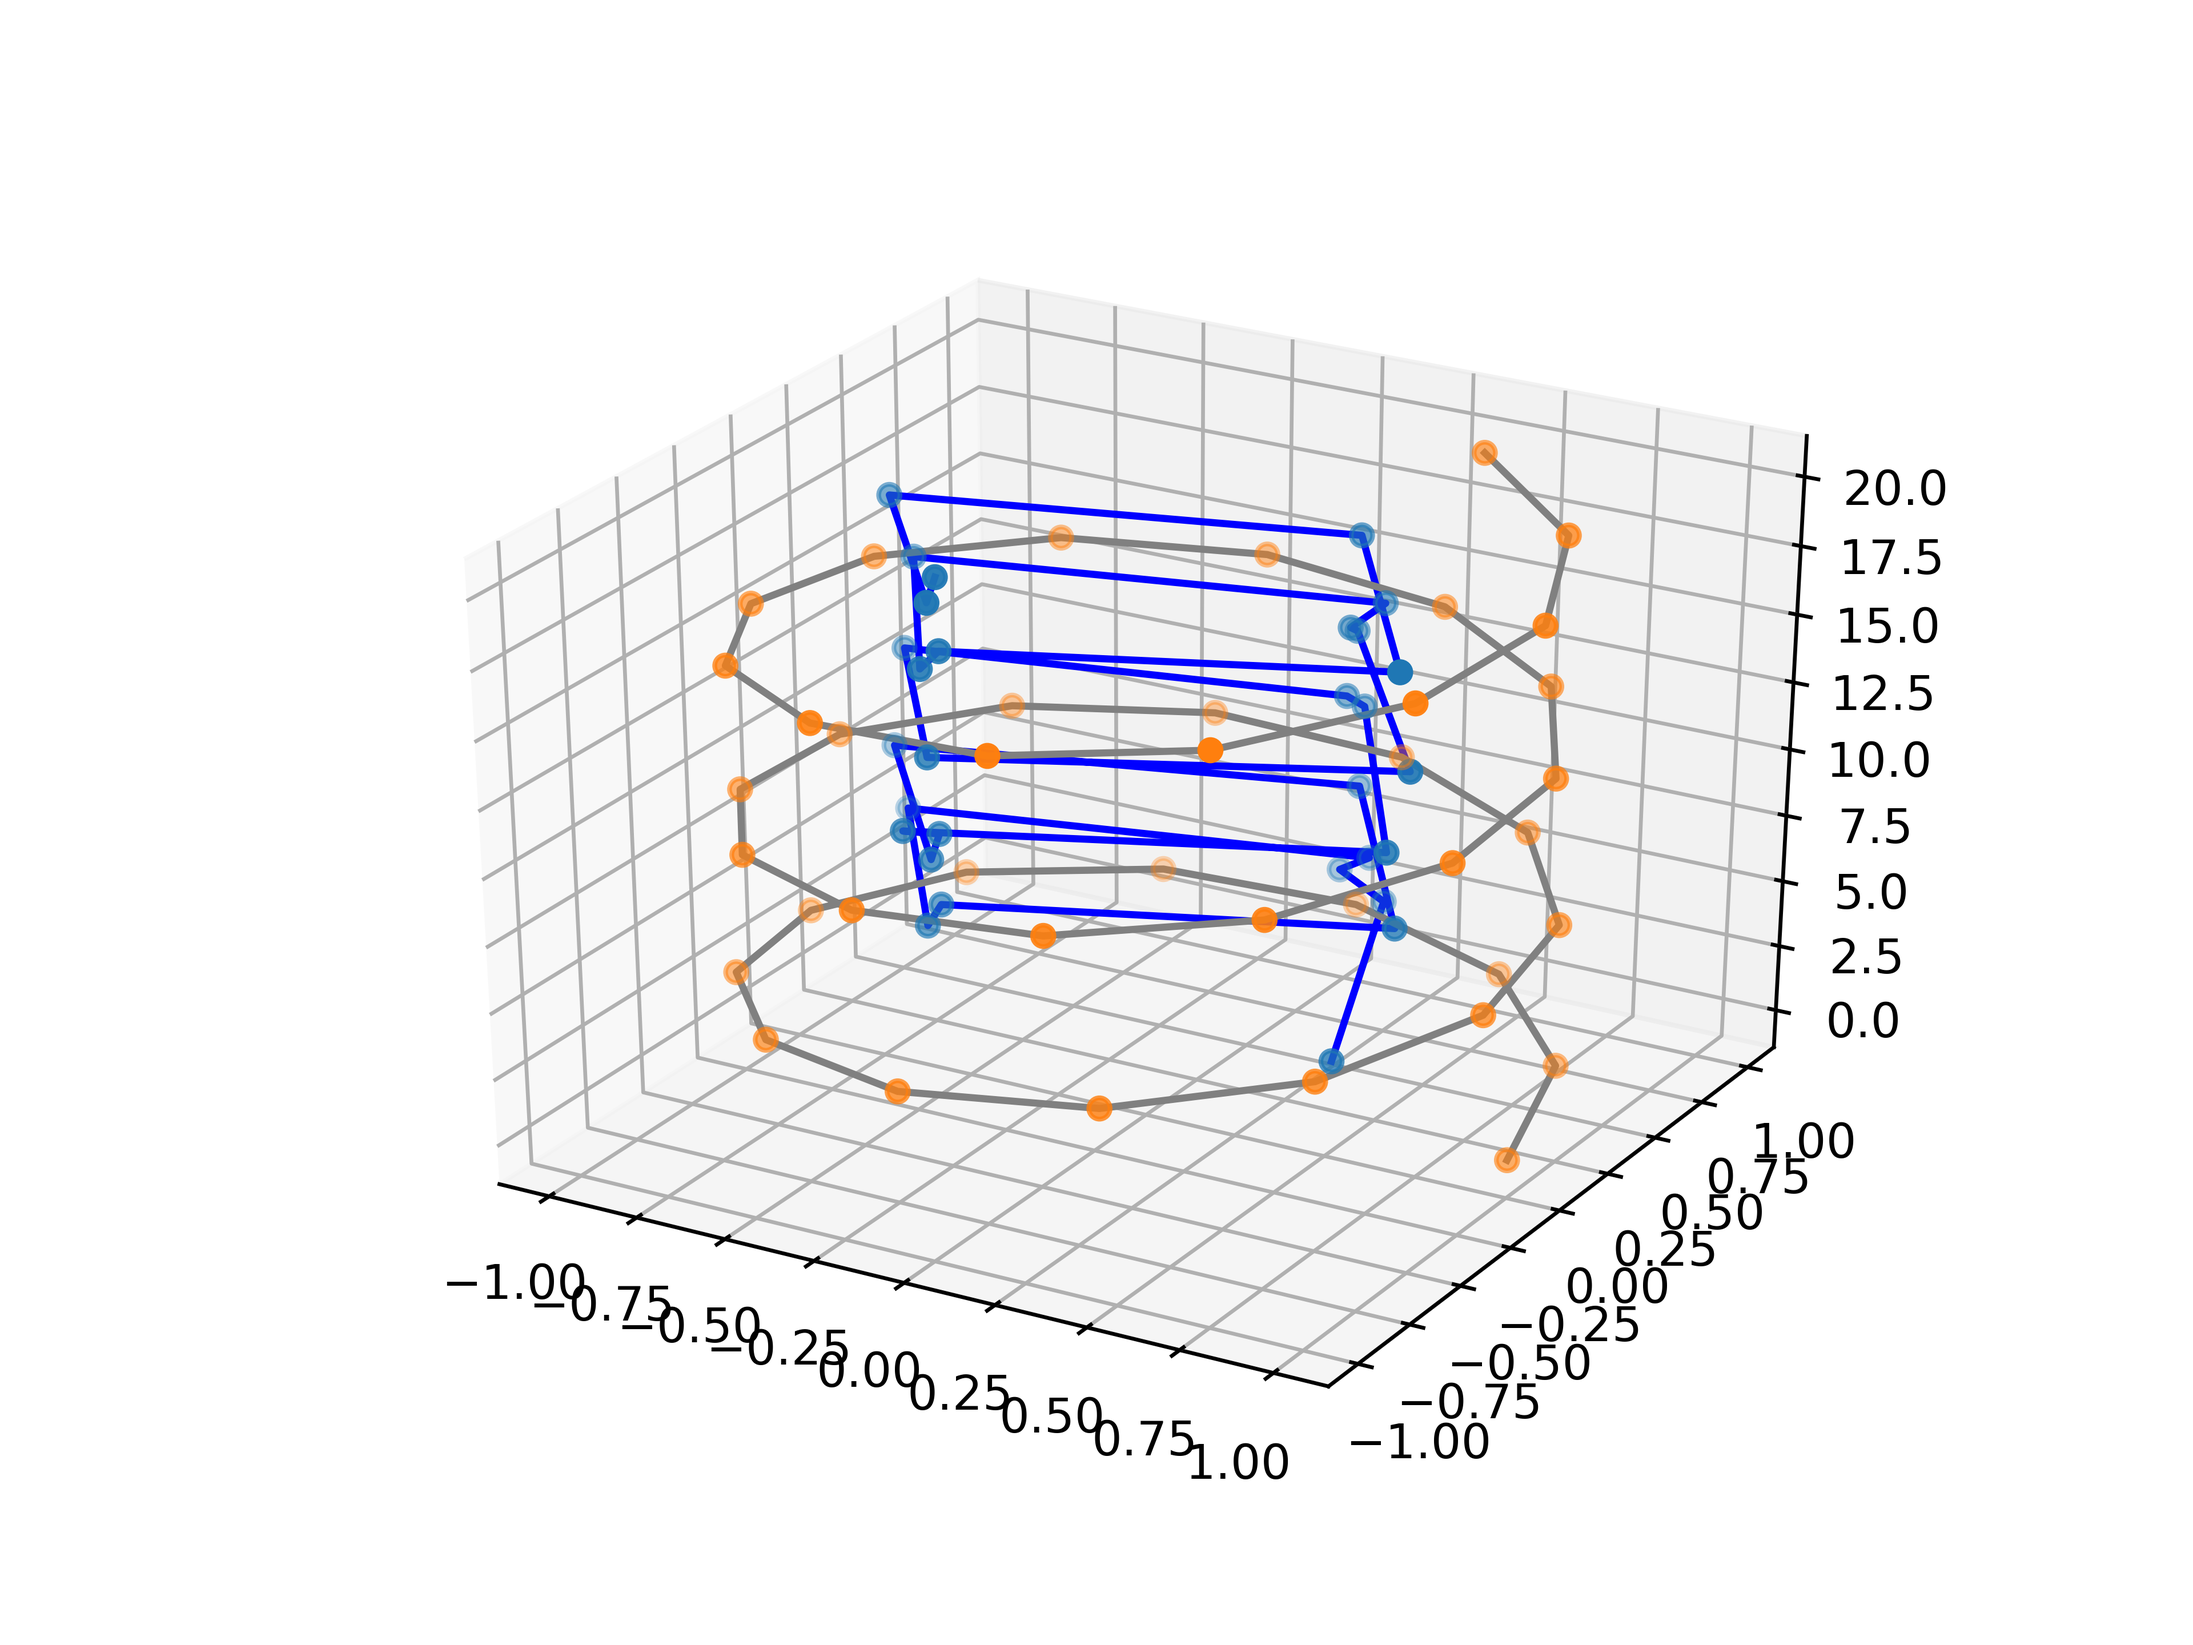
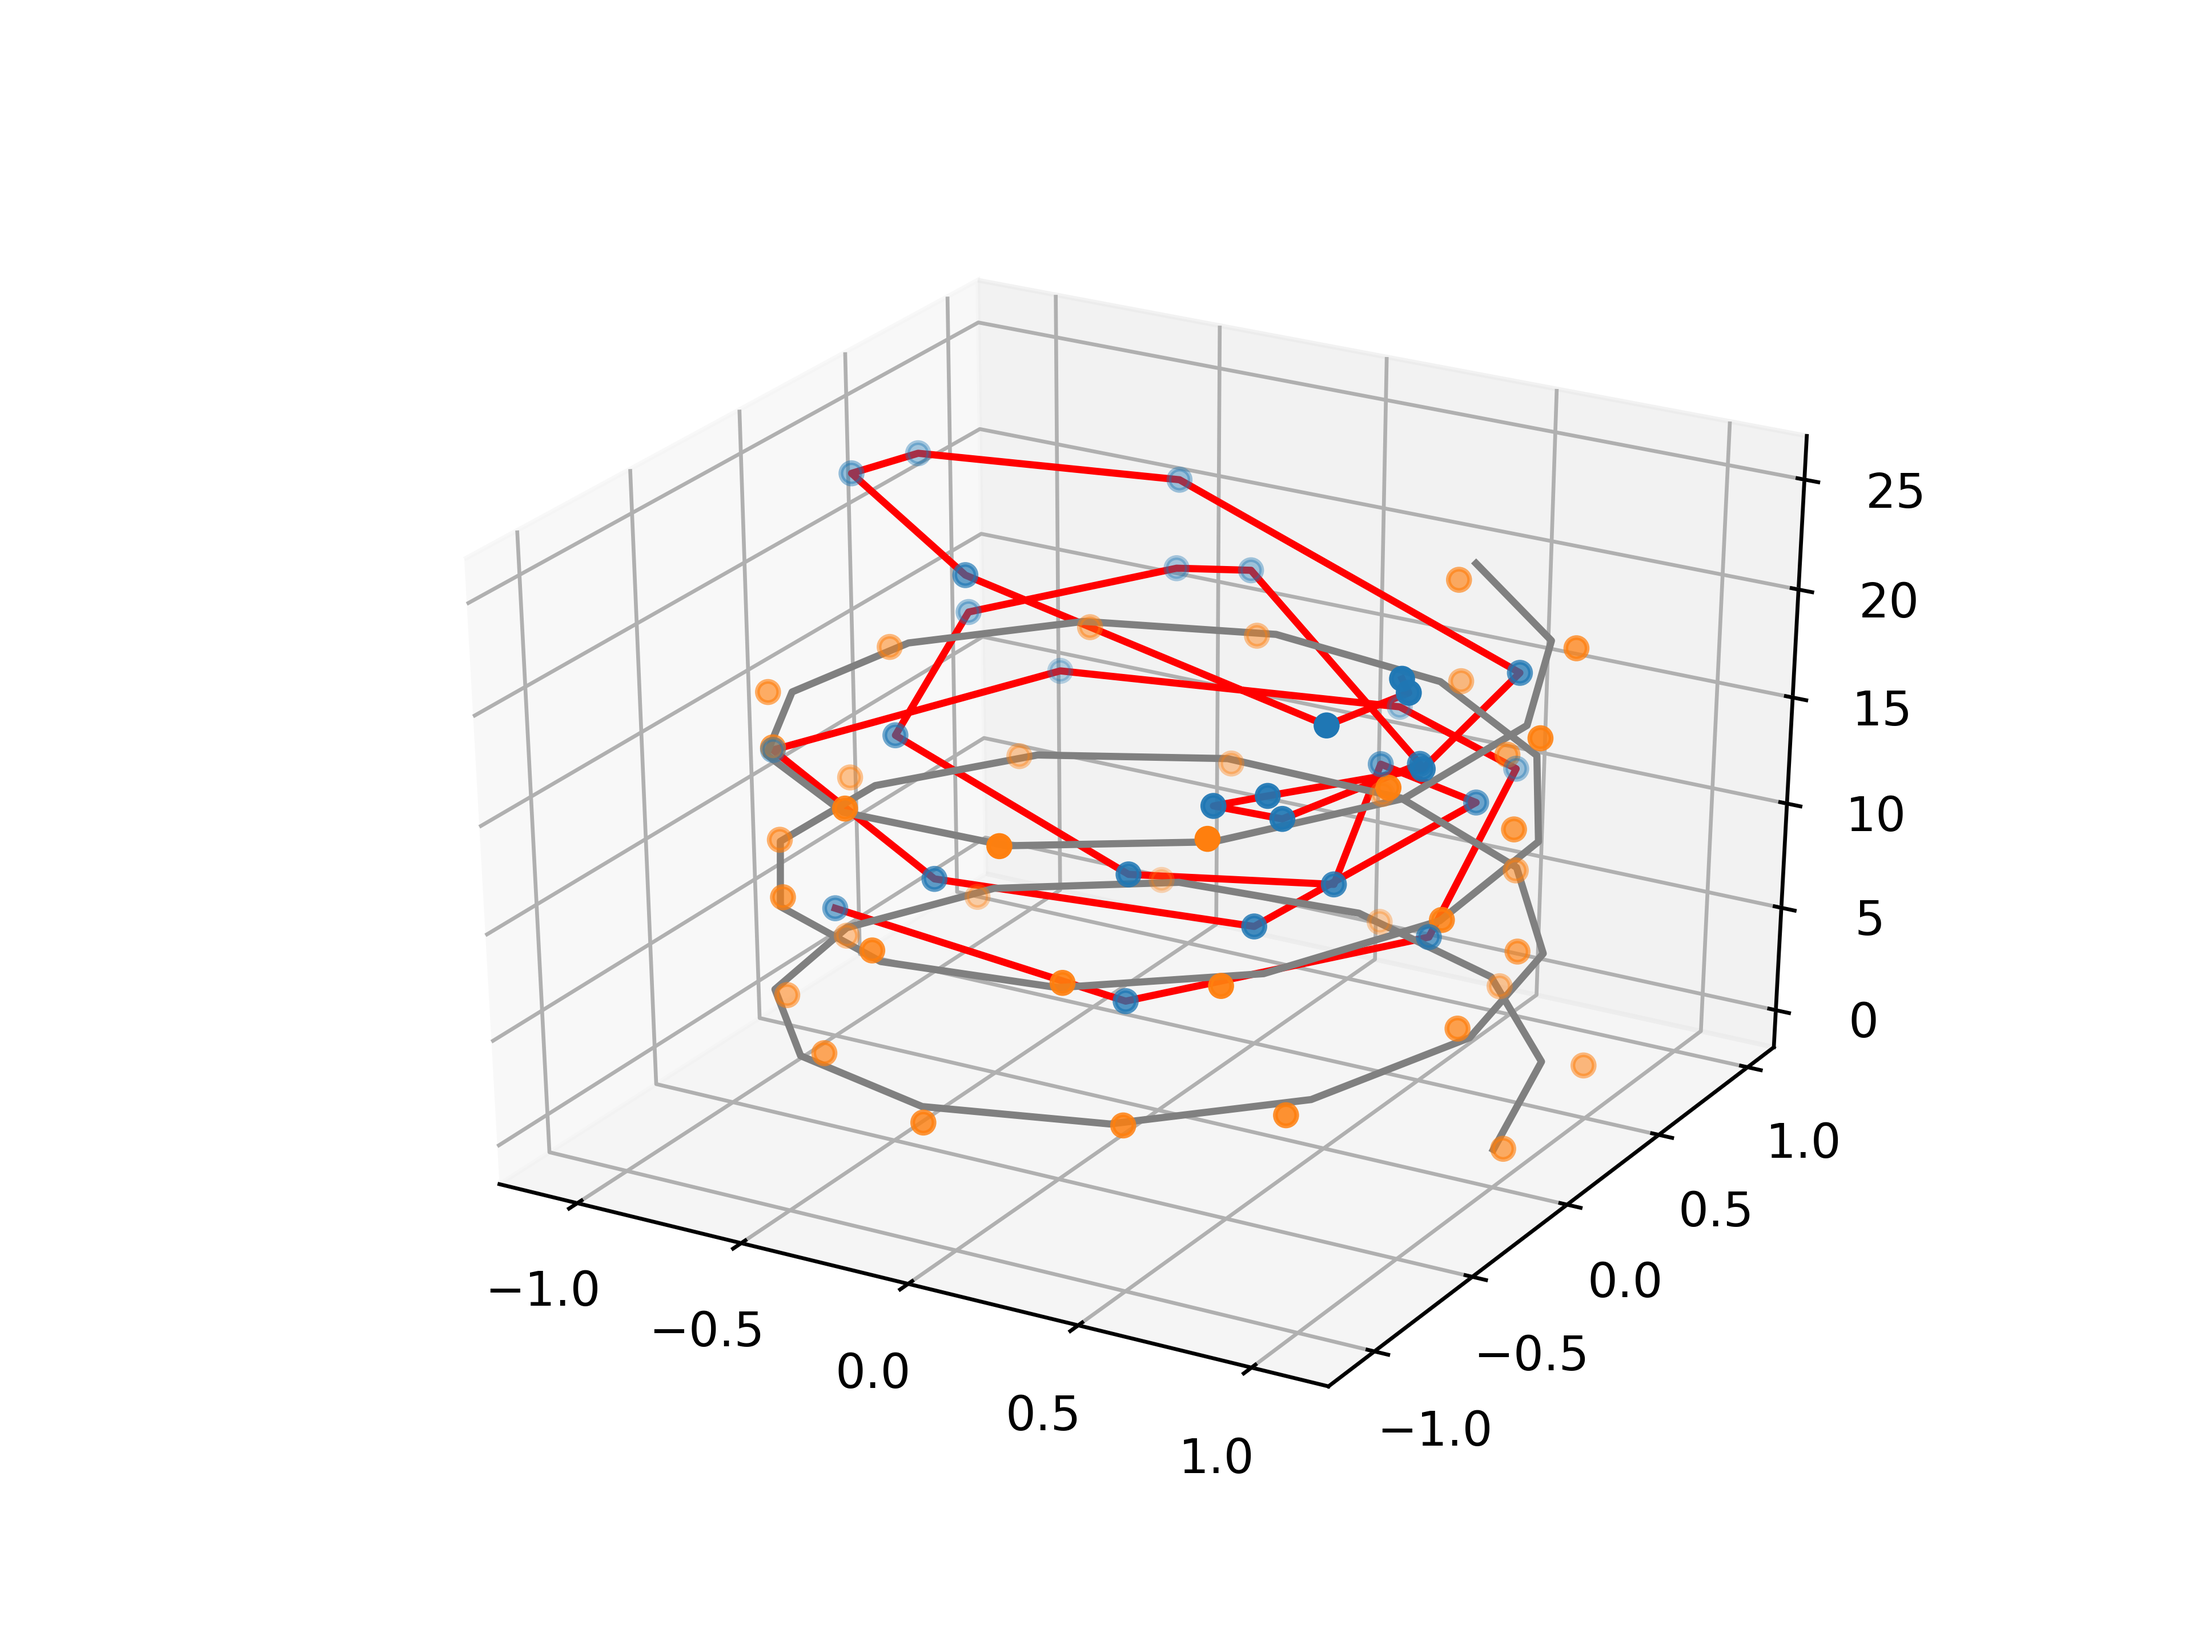
Completed LSTM RNN

diff --git a/networks/lstm_rnn.py b/networks/lstm_rnn.py
@@ -3,6 +3,8 @@ import torch
 import torch.nn as nn
 import torch.optim as optim
 
+import matplotlib.pyplot as plt
+
 from utils.linear import Linear
 from crossbar.crossbar import crossbar
 
@@ -23,7 +25,7 @@ class LSTM_RNN(nn.Module):
     
     def forward(self, x):
         out, h = self.lstm(x)
-        # out = out[:, 1, :]
+        out = out[:, 1, :]
         out = self.linear(torch.relu(out))
         return out
 
@@ -32,27 +34,70 @@ class LSTM_RNN(nn.Module):
         self.linear_hidden.use_cb(state)
         self.solve.use_cb(state)
 
-def train(model, data_gen, iters):
+def train(model, data_gen, epochs):
+
+    examples = data_gen.train_data
 
     optimizer = optim.Adam(model.parameters(), lr=0.01)
-    loss_func = nn.MSELoss()
+    loss_function = nn.MSELoss()
 
-    for itr in range(1, iters + 1):
+    loss_history = []
 
-        optimizer.zero_grad()
-        batch_y0, batch_t, batch_y = data_gen.get_random_batch()
+    for epoch in range(epochs):
 
-        pred_y = model(batch_y)
+        epoch_loss = []
 
-        loss = loss_func(pred_y, batch_y)
-        loss.backward()
-        optimizer.step()
+        for i, (example, label) in enumerate(examples):
 
-        print('Iter {:04d} | Total Loss {:.6f}'.format(itr, loss))
+            optimizer.zero_grad()
+            prediction = model(example[0].reshape(-1, 10, 2)).reshape(2, 1)
 
+            loss = loss_function(prediction, label)
+            epoch_loss.append(loss)
+            loss.backward()
+            optimizer.step()
+        
+        loss_history.append(sum(epoch_loss) / len(examples))
+        epoch_loss = []
+
+        print('Epoch {:04d} | Total Loss {:.6f}'.format(epoch, loss_history[epoch]))
+
+    # Test
+    seq = data_gen.test_start[0][0]
+    t = data_gen.test_start[0][1]
+    num_predict = 30
+    length = num_predict
+
+    dt = torch.sum(t[1:] - t[0:-1]) / (len(t) - 1)
+    output = []
+    all_t = []
+
+    #model.use_cb(True)
+    
     with torch.no_grad():
-        # pred_y = model(torch.tensor(torch.reshape(data_gen.true_y0, (1, 1, 3))))
-        print(data_gen.obs.size())
-        pred_y = model(data_gen.obs)
-        print(pred_y.size())
-        data_gen.plot_prediction(data_gen.true_y, pred_y)
+        for i in range(length):
+            prediction = model(seq.reshape(-1, 10, 2)).reshape(2, 1).reshape(1, -1, 1)
+            seq = torch.cat((seq[1:], prediction), axis=0)
+            all_t.append(t[-1].unsqueeze(0) + dt.unsqueeze(0))
+            t = torch.cat((t[1:], t[-1].unsqueeze(0) + dt.unsqueeze(0)), axis=0)
+            output.append(prediction)
+
+    output, times = torch.cat(output, axis=0), torch.cat(all_t, axis=0)
+
+    ax = plt.axes(projection='3d')
+
+    o1, o2, o3 = output[:, 0].squeeze(), output[:, 1].squeeze(), times.squeeze()
+    # o1, o2, o3 = output[:, 0].squeeze(), output[:, 1].squeeze(), output[:, 2].squeeze()
+    ax.plot3D(o1, o2, o3, 'red')
+    ax.scatter3D(o1, o2, o3, 'red')
+    
+    d1, d2, d3 = data_gen.y[0, :].squeeze(), data_gen.y[1, :].squeeze(), data_gen.x.squeeze()
+    # d1, d2, d3 = data_gen.y[0, :].squeeze(), data_gen.y[1, :].squeeze(), data_gen.y[2, :].squeeze()
+    # ax.plot3D(d1, d2, d3, 'gray')
+    ax.plot3D(data_gen.true_x, data_gen.true_y, data_gen.true_z, 'gray')
+    ax.scatter3D(d1, d2, d3, 'gray')
+
+    plt.savefig('./output/ode_rnn.png', dpi=600, transparent=True)
+
+    return ax
+

diff --git a/networks/ode_rnn.py b/networks/ode_rnn.py
@@ -15,11 +15,12 @@ class ODE_Func(nn.Module):
     def __init__(self, hidden_layer_size, cb):
         super(ODE_Func, self).__init__()
         self.linear = Linear(hidden_layer_size, hidden_layer_size, cb)
+        self.linear2 = Linear(hidden_layer_size, hidden_layer_size, cb)
         self.nonlinear = nn.Tanh()
 
     def forward(self, t, x):
         # x = torch.transpose(x, 0, 1)
-        out = self.nonlinear(self.linear(x))
+        out = self.linear2(self.nonlinear(self.linear(x)))
         return out
 
     def use_cb(self, state):
@@ -115,12 +116,11 @@ def train(model, data_gen, epochs):
     with torch.no_grad():
         for i in range(length):
             prediction = model((t + dt), seq).reshape(1, -1, 1)
+            print(prediction)
             seq = torch.cat((seq[1:], prediction), axis=0)
             all_t.append(t[-1].unsqueeze(0) + dt.unsqueeze(0))
             t = torch.cat((t[1:], t[-1].unsqueeze(0) + dt.unsqueeze(0)), axis=0)
             output.append(prediction)
-            print("t: ", all_t[i])
-            print("output: ", output[i])
 
     output, times = torch.cat(output, axis=0), torch.cat(all_t, axis=0)
 
@@ -128,12 +128,13 @@ def train(model, data_gen, epochs):
 
     o1, o2, o3 = output[:, 0].squeeze(), output[:, 1].squeeze(), times.squeeze()
     # o1, o2, o3 = output[:, 0].squeeze(), output[:, 1].squeeze(), output[:, 2].squeeze()
-    ax.plot3D(o1, o2, o3, 'blue')
-    ax.scatter3D(o1, o2, o3, 'blue')
+    ax.plot3D(o1, o2, o3, 'red')
+    ax.scatter3D(o1, o2, o3, 'red')
     
     d1, d2, d3 = data_gen.y[0, :].squeeze(), data_gen.y[1, :].squeeze(), data_gen.x.squeeze()
     # d1, d2, d3 = data_gen.y[0, :].squeeze(), data_gen.y[1, :].squeeze(), data_gen.y[2, :].squeeze()
-    ax.plot(d1, d2, d3, 'gray')
+    # ax.plot3D(d1, d2, d3, 'gray')
+    ax.plot3D(data_gen.true_x, data_gen.true_y, data_gen.true_z, 'gray')
     ax.scatter3D(d1, d2, d3, 'gray')
 
     plt.savefig('./output/ode_rnn.png', dpi=600, transparent=True)

diff --git a/utils/spiral_generator.py b/utils/spiral_generator.py
@@ -18,11 +18,20 @@ class Epoch_Spiral_Generator():
         self.dimension = dimension
 
         self.x = torch.linspace(0, depth, n_pts).reshape(1, -1)
-        self.y = torch.cat((torch.cos(self.x), torch.sin(self.x)), axis=0)
+        self.y_x = (torch.cos(self.x) + 0.05 * np.random.randn(n_pts)).float()
+        self.y_y = (torch.sin(self.x) + 0.05 * np.random.randn(n_pts)).float()
+        self.y = torch.cat((self.y_x, self.y_y), axis=0)
+        self.true_z = torch.linspace(0, depth, n_pts).float()
+        self.true_x = torch.cos(self.true_z).float()
+        self.true_y = torch.sin(self.true_z).float()
         self.data = [((self.y[:, i:i+train_window].reshape(-1, dimension, 1), self.x[:, i:i+train_window].reshape(-1, 1, 1)), (self.y[:, i+train_window:i+train_window+1].reshape(dimension, -1))) for i in range(self.y.size(1) - train_window)]
 
+        # self.x = torch.linspace(0, depth, n_pts).reshape(1, -1)
+        # self.y = torch.cat((torch.cos(self.x), torch.sin(self.x)), axis=0)
+        # self.data = [((self.y[:, i:i+train_window].reshape(-1, dimension, 1), self.x[:, i:i+train_window].reshape(-1, 1, 1)), (self.y[:, i+train_window:i+train_window+1].reshape(dimension, -1))) for i in range(self.y.size(1) - train_window)]
+
         self.train_data = self.data[:cutoff]
-        self.test_start = self.data[0]
+        self.test_start = self.data[cutoff]
 
     def plot(self):
 

diff --git a/fig6.py b/fig6.py
@@ -53,18 +53,19 @@ device_params = {"Vdd": 0.2,
 # ground_truth = data_gen.get_plot()
 # plt.savefig('./output/ground_truth.png', dpi=600, transparent=True)
 
+# 40, 10, 20, 10, 2
 data_gen = Epoch_Spiral_Generator(40, 10, 20, 10, 2)
 
 # Build and train models
 
-ode_rnn = ODE_RNN(2, 6, 2, device_params)
-output = ode_rnn_train(ode_rnn, data_gen, 30)
+# ode_rnn = ODE_RNN(2, 6, 2, device_params)
+# output = ode_rnn_train(ode_rnn, data_gen, 20)
 
 # ode_net = ODE_Net(3, 50, 3, crossbar(device_params))
 # iter_train(ode_net, data_gen2, 500)
 
-# lstm_rnn = LSTM_RNN(3, 50, 3, device_params)
-# lstm_train(lstm_rnn, data_gen, 2000)
+lstm_rnn = LSTM_RNN(2, 6, 2, device_params)
+lstm_train(lstm_rnn, data_gen, 30)
 
 # Test models
 
